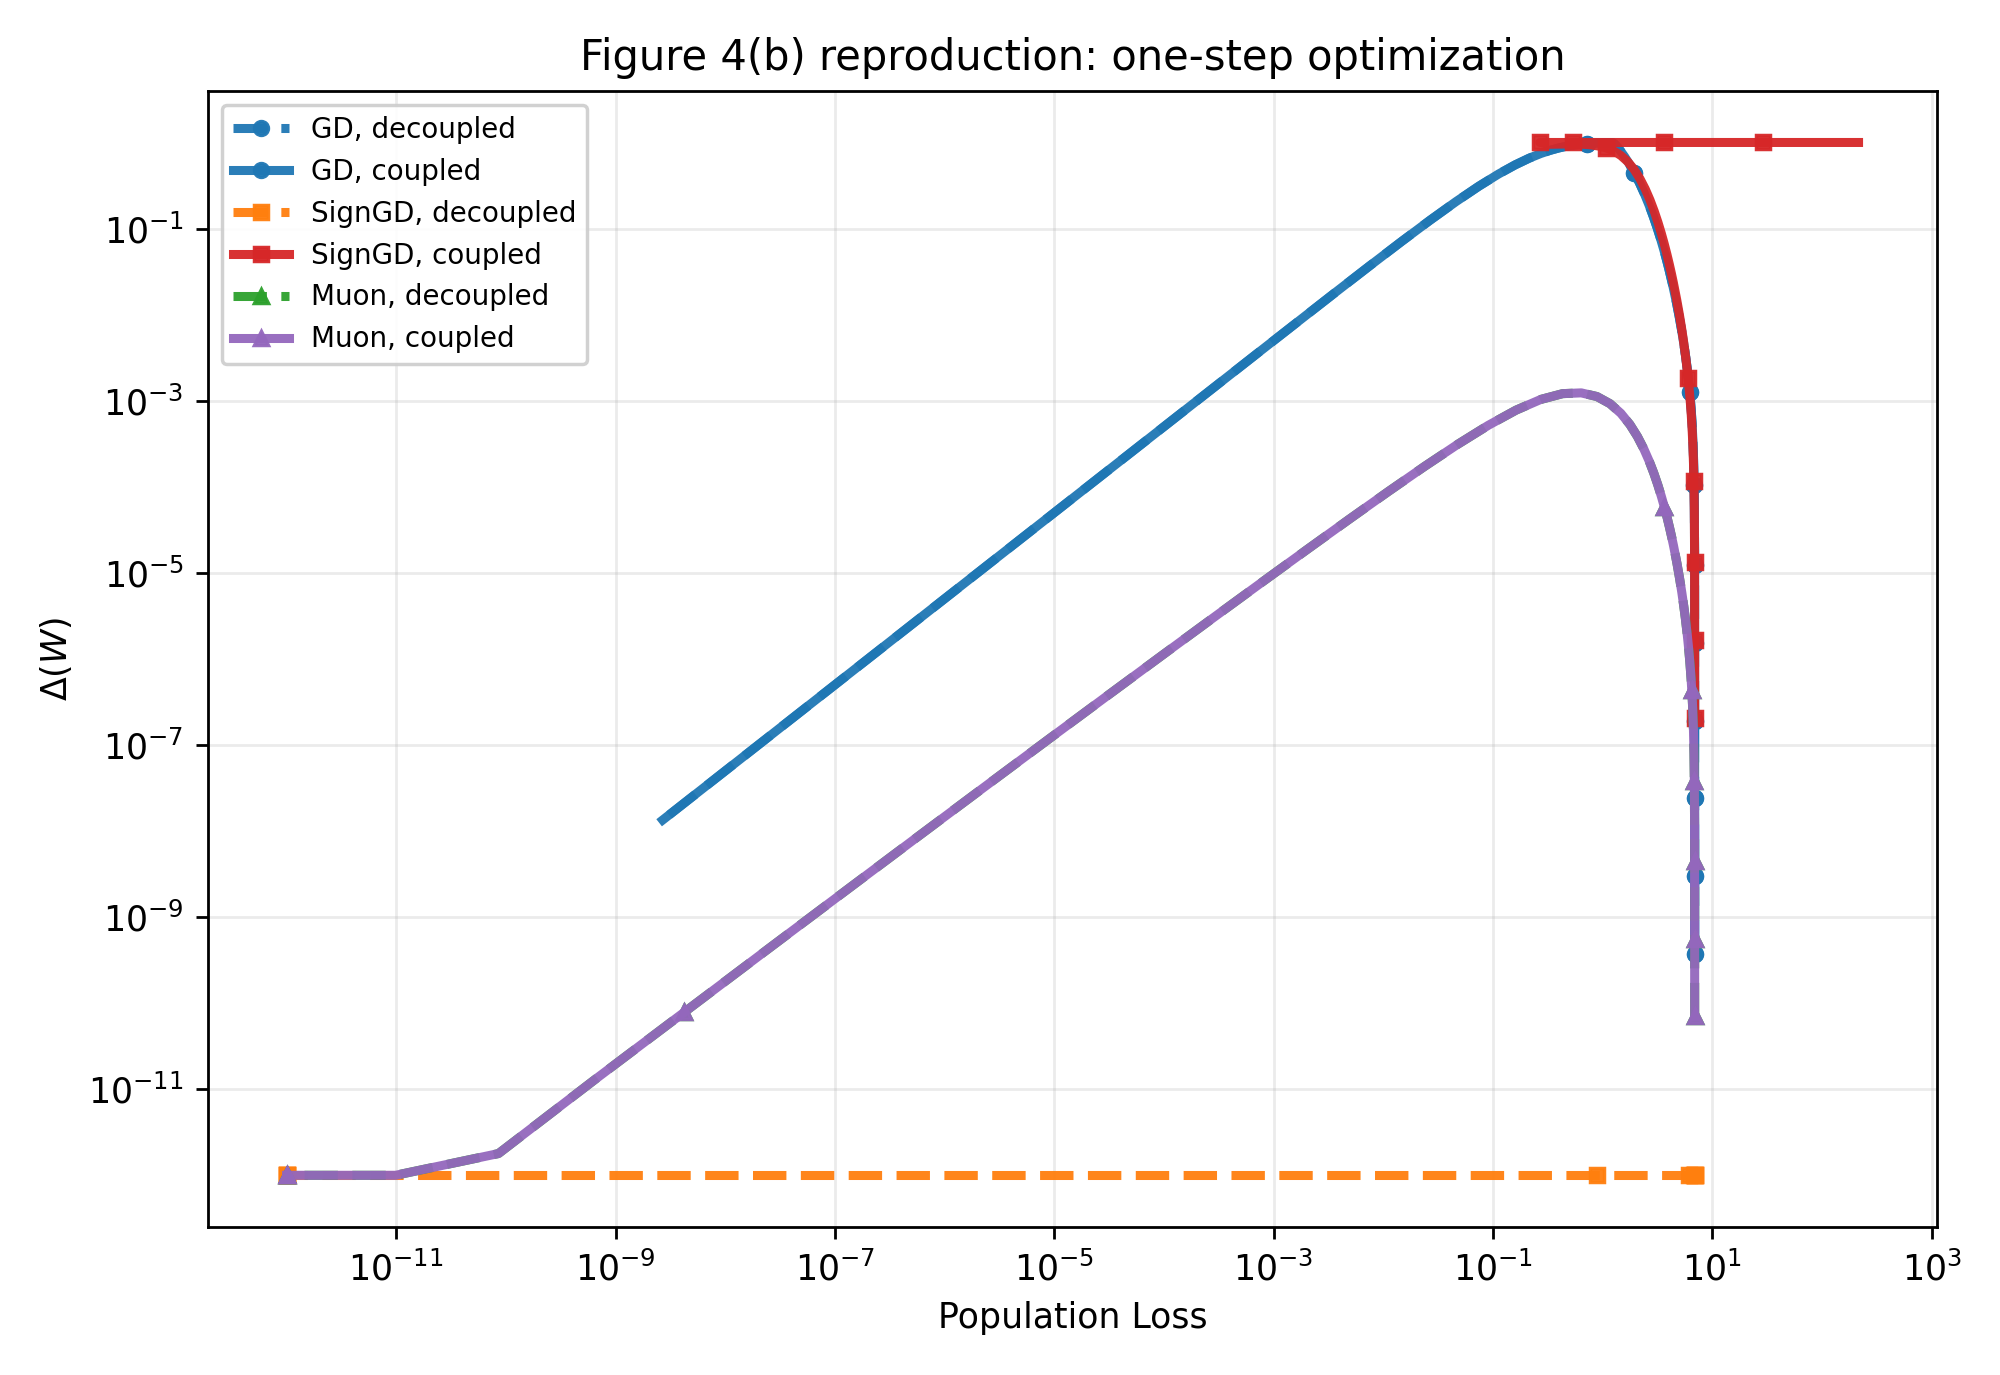
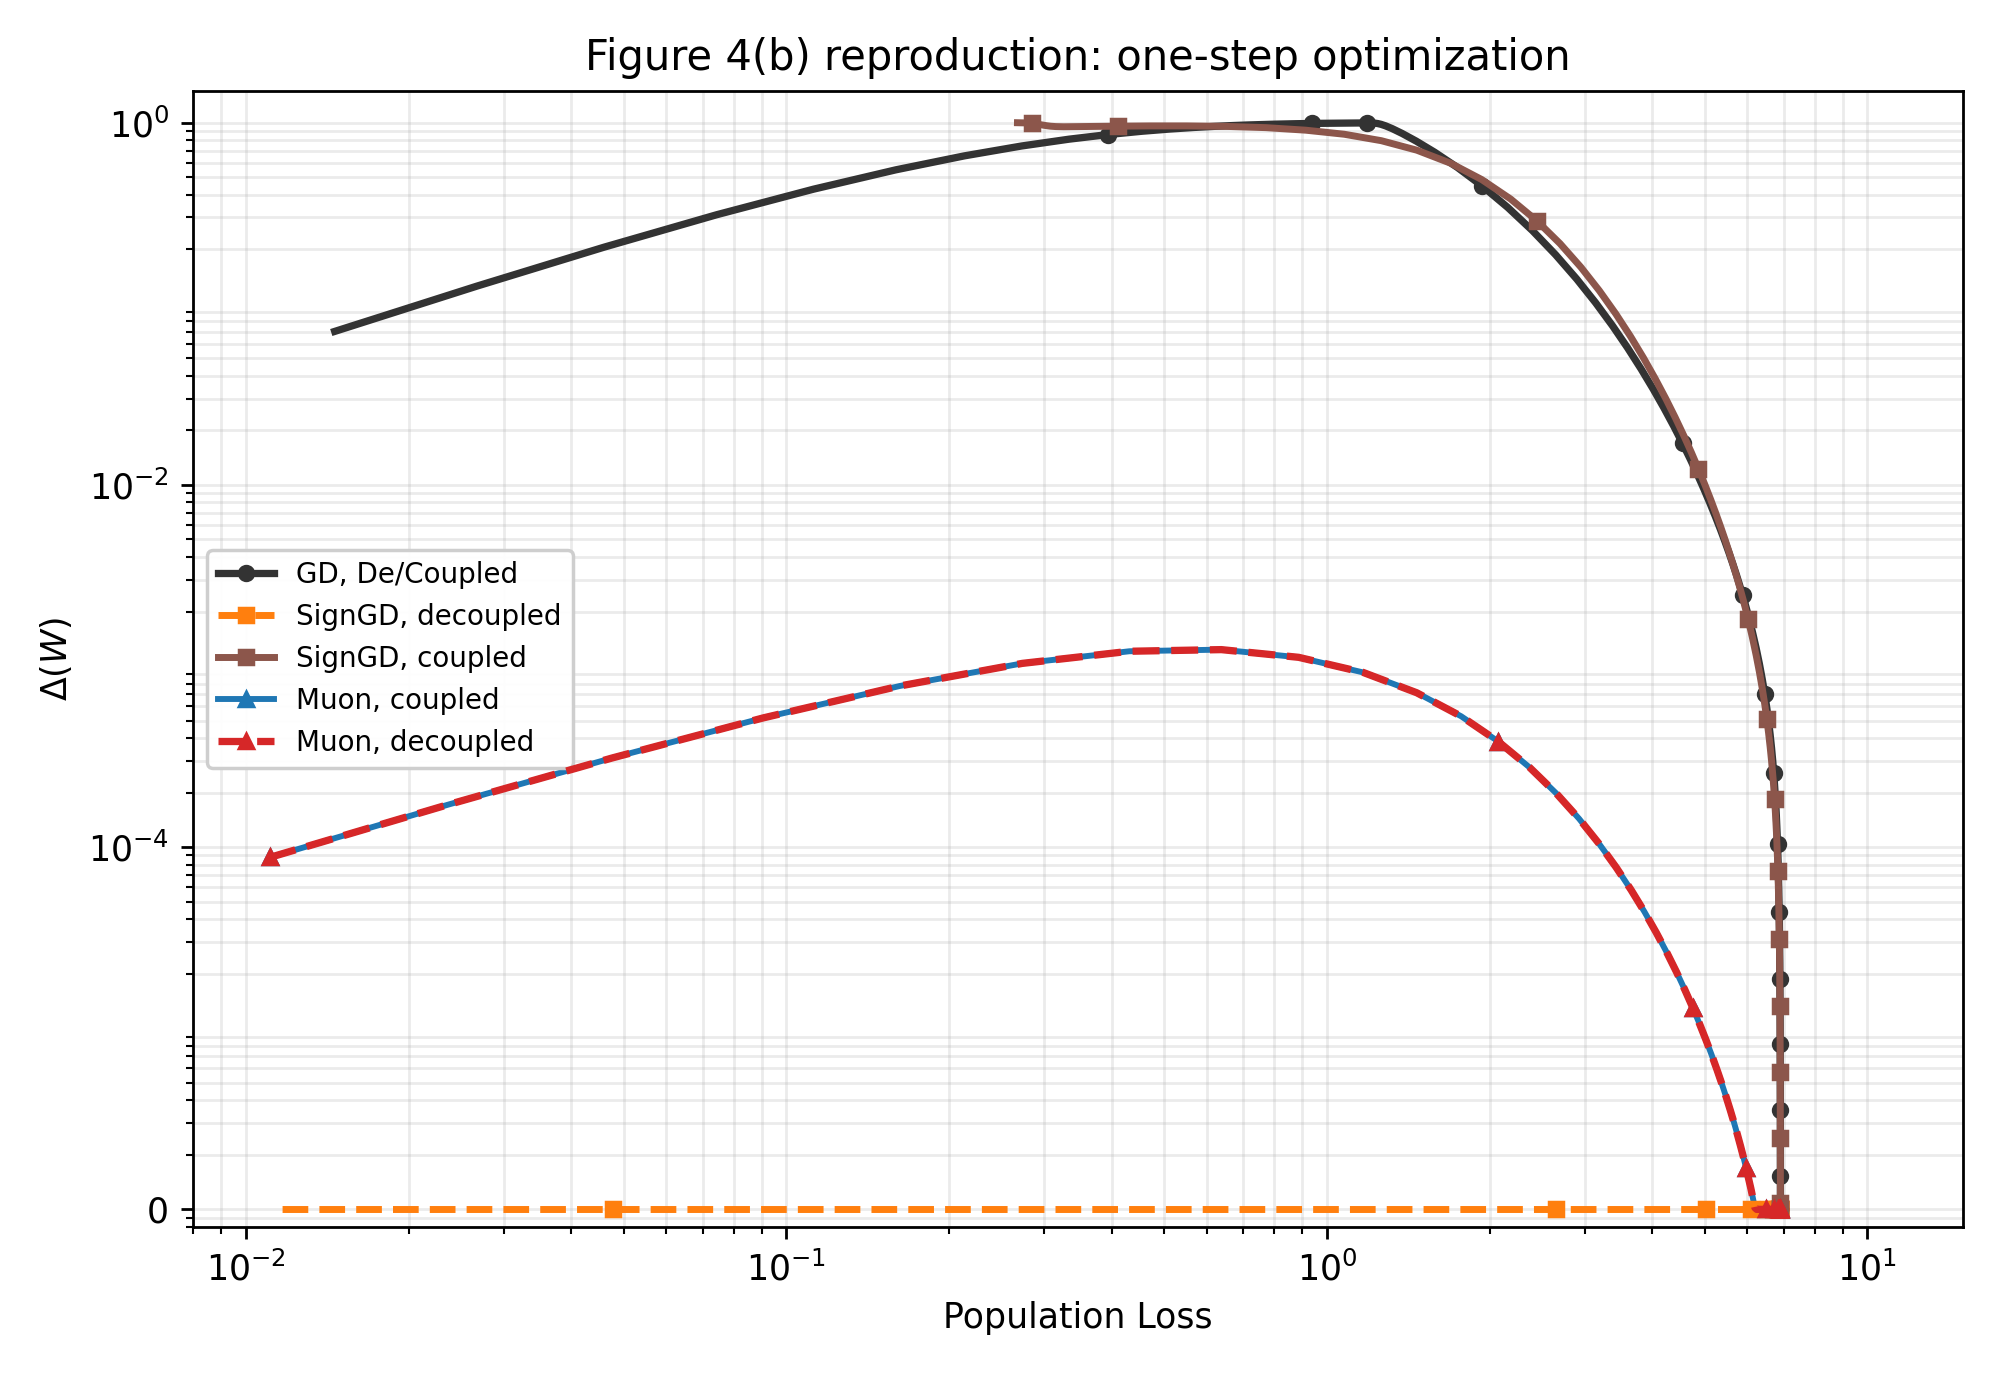
Add Figure 4 one-step reproduction

diff --git a/experiments/fig4_wang2509/plot_fig4.py b/experiments/fig4_wang2509/plot_fig4.py
@@ -18,62 +18,122 @@ def label_name(regime, optimizer):
 def plot_one_step(csv_path: str, out_path: str):
     df = pd.read_csv(csv_path)
 
-    df["loss_plot"] = df["loss"].clip(lower=1e-12)
-    df["delta_plot"] = df["delta"].clip(lower=1e-12)
-
     plt.figure(figsize=(8, 5.5))
 
+    # Visible plotting range.
+    # We show down to 1e-2 instead of 0, because log-scale cannot display 0.
+    x_min = 1e-2
+    x_max = 1.5e1
+    y_min = 1e-6
+    y_max = 1.5e0
+
     styles = {
-        ("decoupled", "gd"): {
-            "label": "GD, decoupled",
-            "color": "#1f77b4",
-            "linestyle": "--",
-            "marker": "o",
-        },
-        ("coupled", "gd"): {
-            "label": "GD, coupled",
-            "color": "#1f77b4",
+        # GD: merged line because decoupled/coupled coincide.
+        ("gd_merged", "gd"): {
+            "label": "GD, De/Coupled",
+            "color": "#333333",
             "linestyle": "-",
             "marker": "o",
+            "linewidth": 2.1,
+            "alpha": 1.0,
+            "zorder": 3,
         },
+
+        # SignGD
         ("decoupled", "signgd"): {
             "label": "SignGD, decoupled",
             "color": "#ff7f0e",
             "linestyle": "--",
             "marker": "s",
+            "linewidth": 2.0,
+            "alpha": 1.0,
+            "zorder": 4,
         },
         ("coupled", "signgd"): {
             "label": "SignGD, coupled",
-            "color": "#d62728",
+            "color": "#8c564b",
             "linestyle": "-",
             "marker": "s",
+            "linewidth": 2.0,
+            "alpha": 1.0,
+            "zorder": 5,
+        },
+
+        # Muon
+        # Coupled blue is drawn first; decoupled red dashed is drawn later on top.
+        ("coupled", "muon"): {
+            "label": "Muon, coupled",
+            "color": "#1f77b4",
+            "linestyle": "-",
+            "marker": "^",
+            "linewidth": 1.7,
+            "alpha": 1.0,
+            "zorder": 2,
         },
         ("decoupled", "muon"): {
             "label": "Muon, decoupled",
-            "color": "#2ca02c",
+            "color": "#d62728",
             "linestyle": "--",
             "marker": "^",
-        },
-        ("coupled", "muon"): {
-            "label": "Muon, coupled",
-            "color": "#9467bd",
-            "linestyle": "-",
-            "marker": "^",
+            "linewidth": 2.1,
+            "alpha": 1.0,
+            "zorder": 7,
         },
     }
 
+    def prepare_branch(sub):
+        sub = sub.sort_values("eta").copy()
+
+        # Keep only descent branch up to the eta that minimizes loss.
+        # This removes the overshoot branch where loss increases again.
+        idx_min = sub["loss"].idxmin()
+        eta_min_loss = sub.loc[idx_min, "eta"]
+        sub = sub[sub["eta"] <= eta_min_loss].copy()
+
+        # Do not clip x. Keep only the visible positive-loss range.
+        # This avoids artificial vertical lines at the left boundary.
+        sub = sub[(sub["loss"] >= x_min) & (sub["loss"] <= x_max)].copy()
+
+        # Log y cannot show true 0, so clip only Delta.
+        sub["loss_plot"] = sub["loss"]
+        sub["delta_plot"] = sub["delta"].clip(lower=y_min, upper=1e0)
+
+        return sub
+
+    # 1. Plot merged GD line using decoupled GD only.
+    # Coupled GD is numerically the same, so we do not draw it twice.
+    gd_sub = df[(df["regime"] == "decoupled") & (df["optimizer"] == "gd")]
+    gd_sub = prepare_branch(gd_sub)
+
+    style = styles[("gd_merged", "gd")]
+    plt.plot(
+        gd_sub["loss_plot"],
+        gd_sub["delta_plot"],
+        label=style["label"],
+        color=style["color"],
+        linestyle=style["linestyle"],
+        linewidth=style["linewidth"],
+        marker=style["marker"],
+        markersize=4,
+        markevery=12,
+        alpha=style["alpha"],
+        zorder=style["zorder"],
+    )
+
+    # 2. Plot SignGD and Muon.
+    # Important order:
+    # - Muon coupled blue first
+    # - Muon decoupled red dashed later, with higher zorder
     order = [
-        ("decoupled", "gd"),
-        ("coupled", "gd"),
         ("decoupled", "signgd"),
         ("coupled", "signgd"),
-        ("decoupled", "muon"),
         ("coupled", "muon"),
+        ("decoupled", "muon"),
     ]
 
     for regime, optimizer in order:
         sub = df[(df["regime"] == regime) & (df["optimizer"] == optimizer)]
-        sub = sub.sort_values("eta")
+        sub = prepare_branch(sub)
 
         style = styles[(regime, optimizer)]
 
@@ -83,26 +143,44 @@ def plot_one_step(csv_path: str, out_path: str):
             label=style["label"],
             color=style["color"],
             linestyle=style["linestyle"],
-            linewidth=2.6,
+            linewidth=style["linewidth"],
             marker=style["marker"],
             markersize=4,
-            markevery=30,
-            alpha=0.95,
+            markevery=12,
+            alpha=style["alpha"],
+            zorder=style["zorder"],
         )
 
     plt.xscale("log")
     plt.yscale("log")
+
+    # Add a small buffer around the data range.
+    plt.xlim(8e-3, x_max)
+    plt.ylim(8e-7, y_max)
+
+    plt.xticks(
+        [1e-2, 1e-1, 1e0, 1e1],
+        [r"$10^{-2}$", r"$10^{-1}$", r"$10^{0}$", r"$10^{1}$"],
+    )
+
+    # True 0 cannot appear on log scale.
+    # We plot clipped Delta at 1e-6 and label it visually as 0.
+    plt.yticks(
+        [1e0, 1e-2, 1e-4, 1e-6],
+        [r"$10^{0}$", r"$10^{-2}$", r"$10^{-4}$", "0"],
+    )
+
     plt.xlabel("Population Loss")
     plt.ylabel(r"$\Delta(W)$")
     plt.title("Figure 4(b) reproduction: one-step optimization")
+
     plt.grid(True, which="both", alpha=0.25)
-    plt.legend(fontsize=8, framealpha=0.9)
+    plt.legend(fontsize=8, framealpha=0.95)
     plt.tight_layout()
 
     os.makedirs(os.path.dirname(out_path), exist_ok=True)
     plt.savefig(out_path, dpi=250)
     print(f"[done] wrote figure to {out_path}")
-
 
 def main():
     parser = argparse.ArgumentParser()

diff --git a/experiments/fig4_wang2509/run_one_step.py b/experiments/fig4_wang2509/run_one_step.py
@@ -8,6 +8,7 @@ from experiments.fig4_wang2509.config import DEFAULT_CONFIG, make_prob_vector
 from experiments.fig4_wang2509.embeddings import make_embeddings
 from experiments.fig4_wang2509.model import init_W, loss_and_grad
 from experiments.fig4_wang2509.optimizers import get_direction
+from dataclasses import replace
 
 
 def eval_from_direction_logits(ZD: torch.Tensor, eta: float, p: torch.Tensor):
@@ -35,9 +36,10 @@ def main():
     parser.add_argument("--eta-min", type=float, default=1e-4)
     parser.add_argument("--eta-max", type=float, default=1e5)
     parser.add_argument("--num-etas", type=int, default=300)
+    parser.add_argument("--L", type=int, default=DEFAULT_CONFIG.L)
     args = parser.parse_args()
 
-    cfg = DEFAULT_CONFIG
+    cfg = replace(DEFAULT_CONFIG, L=args.L)
     torch.manual_seed(cfg.seed)
 
     os.makedirs(os.path.dirname(args.out), exist_ok=True)